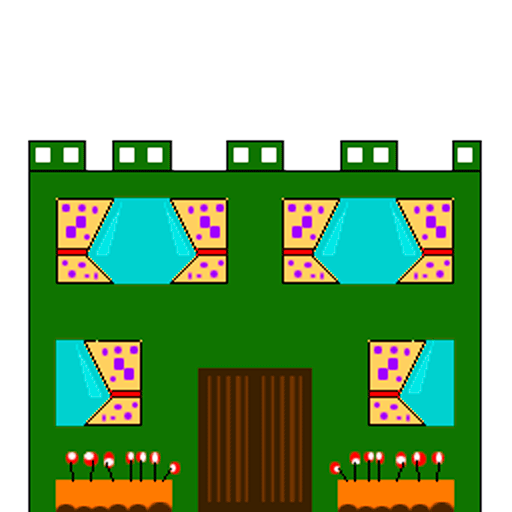
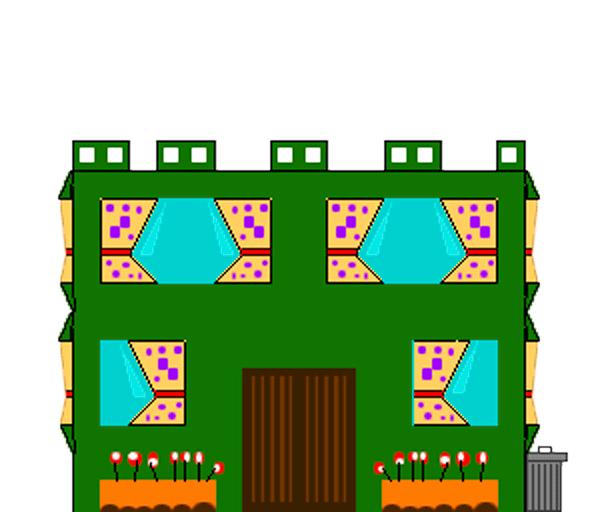
tiles of enemies done in position

diff --git a/js/gamePoorIndex.js b/js/gamePoorIndex.js
@@ -1,6 +1,6 @@
 var ModuleGame = (function () {
  
-  var game = new Phaser.Game(950, 720, Phaser.CANVAS, 'phaser-example', { preload: preload, create: create, update: update, render: render });
+  var game = new Phaser.Game(1200, 720, Phaser.CANVAS, 'phaser-example', { preload: preload, create: create, update: update, render: render });
    var jumpButton;
   var jumpTimer = 0;
   var cursors;
@@ -13,11 +13,21 @@ function preload() {
     game.load.image('casita', 'images/casita.png');
     game.physics.startSystem(Phaser.Physics.ARCADE);
     game.time.desiredFps = 30;
-    
-
- 
 }
 
+
+
+
+function platformsEnemies(tiles, pos){
+    var enemiesFloor = 80;
+    var elvisLives = pos == 0 ? 0 : (pos-enemiesFloor);
+    for(var i = 0; i<tiles; i++){
+      ledgee = platforms.create( elvisLives, 200+(35*i), 'ground');
+      ledgee.width = enemiesFloor;
+    }
+    
+    ledgee.body.immovable = true;
+}
 
 
 function create() {
@@ -59,17 +69,21 @@ function create() {
     //  This stops it from falling away when you jump on it
     ground.body.immovable = true;
 
-
-    ledge1 = platforms.create(game.world.centerX-226, 350, 'ground');
-    ledge1.body.immovable = true;
-
-    ledge2 = platforms.create(150, 500, 'ground');
-    ledge2.width = 650;
+    var houseFloor2 = 400;
+    ledge2 = platforms.create(game.world.centerX-(houseFloor2/2), 350, 'ground');
+    ledge2.width = houseFloor2;
     ledge2.body.immovable = true;
 
 
+    var houseFloor1 = 650;
+    ledge1 = platforms.create(game.world.centerX-(houseFloor1/2), 475, 'ground');
+    ledge1.width = houseFloor1;
+    ledge1.body.immovable = true;
 
-     var c = game.add.sprite(game.world.centerX-256,210-32, 'casita');
+    platformsEnemies(14, game.world.width);
+    platformsEnemies(14, 0);
+
+     var c = game.add.sprite(game.world.centerX-300,210-32, 'casita');
 
 }
 
